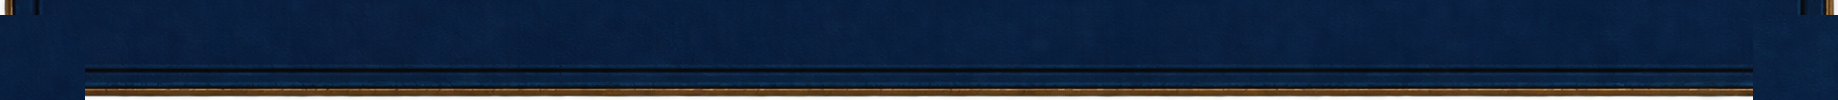
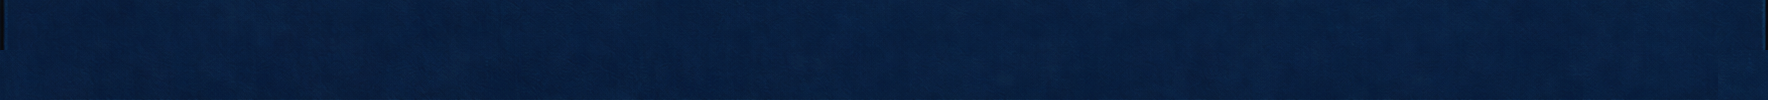
fix(workspace): eliminate horizontal groove line gap in top band using pure leather

diff --git a/client/src/pages/StudentWorkspace.tsx b/client/src/pages/StudentWorkspace.tsx
@@ -508,11 +508,11 @@ export default function StudentWorkspace() {
               "shadow-[0_16px_40px_rgba(0,0,0,0.85),0_4px_12px_rgba(0,0,0,0.65),inset_0_1.5px_0.5px_rgba(255,235,175,0.45),inset_1px_0_0_rgba(255,235,175,0.2),inset_0_-2.5px_2px_rgba(0,0,0,0.95)]"
             )}
           >
-            {/* ─── Saddle Band 1: Fixed Top Cap (120px locked at top: 0, tabs never disconnect) ─── */}
+            {/* ─── Saddle Band 1: Fixed Top Cap (120px locked at top: 0, zero gap) ─── */}
             <div 
               className="absolute top-0 left-0 right-0 h-[120px] pointer-events-none select-none z-0 rounded-t-2xl overflow-hidden"
               style={{
-                backgroundImage: "url('/decor/folio-band-top.png')",
+                backgroundImage: "url('/decor/folio-band-top.png?v=20261002-pure')",
                 backgroundSize: "100% 120px",
                 backgroundPosition: "top center",
                 backgroundRepeat: "no-repeat",
@@ -523,7 +523,7 @@ export default function StudentWorkspace() {
             <div 
               className="absolute left-0 right-0 top-[119px] bottom-[99px] pointer-events-none select-none z-0"
               style={{
-                backgroundImage: "url('/decor/folio-band-middle.png')",
+                backgroundImage: "url('/decor/folio-band-middle.png?v=20261002-pure')",
                 backgroundSize: "100% 100%",
                 backgroundPosition: "center center",
                 backgroundRepeat: "no-repeat",
@@ -534,7 +534,7 @@ export default function StudentWorkspace() {
             <div 
               className="absolute bottom-0 left-0 right-0 h-[100px] pointer-events-none select-none z-0 rounded-b-2xl overflow-hidden"
               style={{
-                backgroundImage: "url('/decor/folio-band-bottom.png')",
+                backgroundImage: "url('/decor/folio-band-bottom.png?v=20261002-pure')",
                 backgroundSize: "100% 100px",
                 backgroundPosition: "bottom center",
                 backgroundRepeat: "no-repeat",
